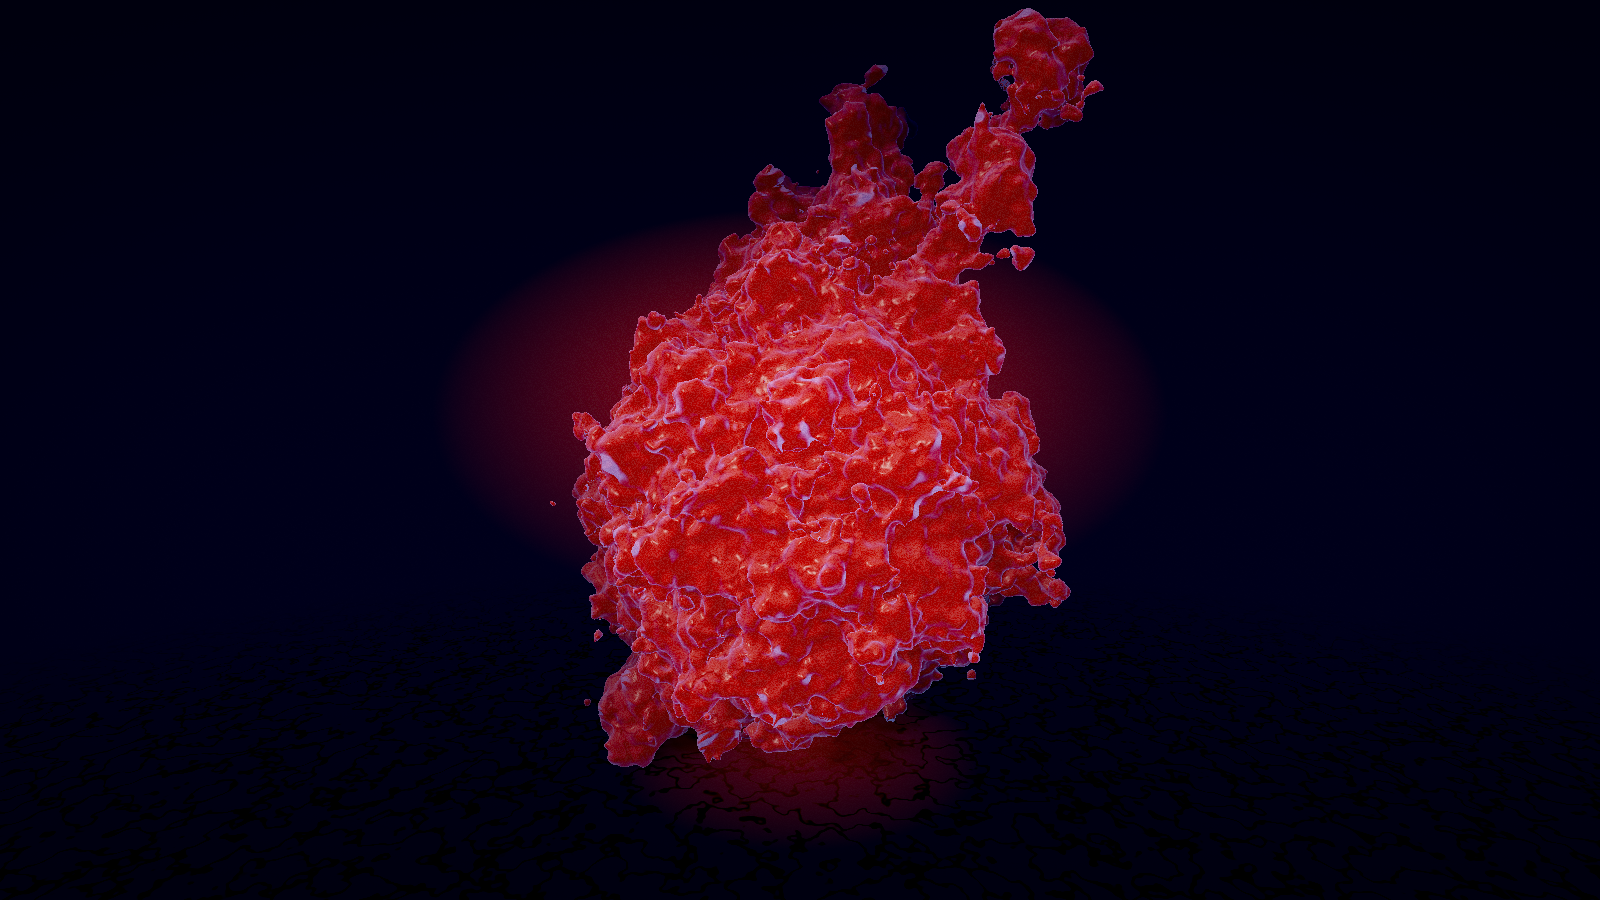
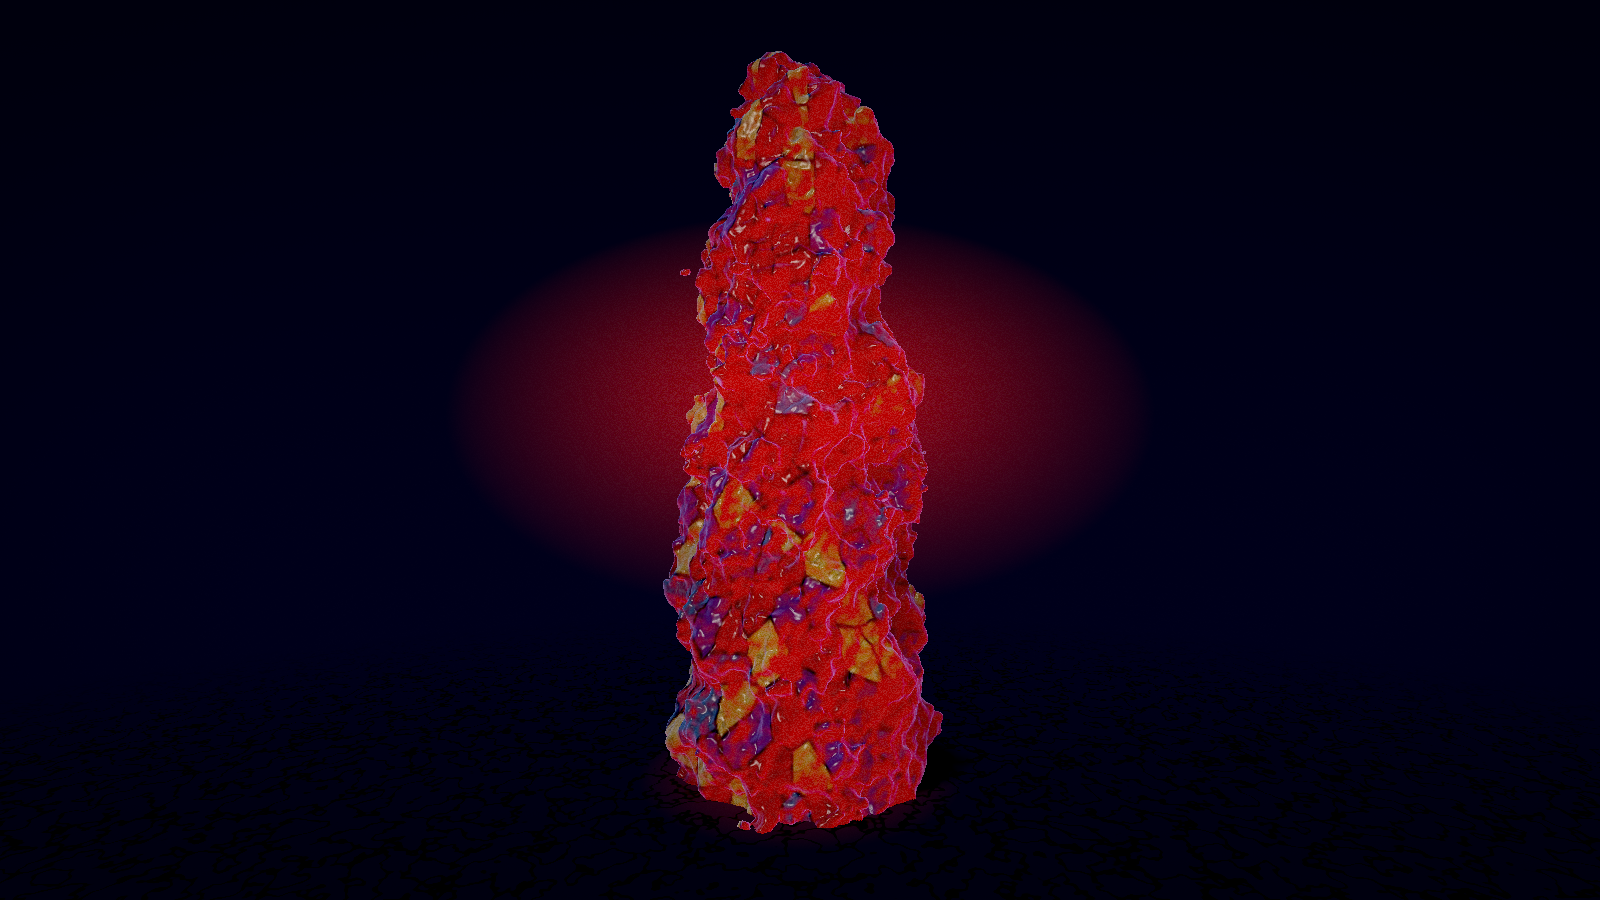
feat: rebuild the mutation as an arm with Voronoi cell tissue
The subject is Tetsuo's arm, not a ball. Replaces the sphere-and-lobes body
with a tapered round cone running along the y axis, and moves the erupting
masses along the limb rather than around a centre. Keeping the arm
axis-aligned is deliberate: it makes the cylindrical texture projection a
single atan2, and the camera orbits instead.

Separates the surface into tissue by projecting cylindrically and running a
Voronoi over the result. Each cell picks one of muscle, bruise, fat or
something colder, with per-cell value variation so neighbours of the same type
still read apart, and f2 - f1 draws the membrane between them. This is the
first layer only — different noise and deformation come next.

New library modules and shapes:

- voronoi.wgsl — voronoiTiled and cellRandom. wgsl-std already ships voronoi2d
  and it is the right choice for a flat field, but a cylinder's angular
  coordinate wraps and a Voronoi keyed on floor(position) puts different cells
  on the two sides of the join, so the seam runs visibly down the shape.
  Wrapping the hashed cell index closes it. Uses the same pcg2d hash as
  wgsl-std so the cells have the same character.
- shape3d gains sdCappedCylinder, sdRoundCone and cylindricalUv.

Also fixes the backscatter, which was inverted. It measured material between
the point and the light and glowed where there was little — which fires
hardest exactly where the surface already faces the light, since nothing is in
[…]

Changed region(s): [[0.3438, 0.0, 0.6875, 0.9333], [0.6875, 0.7156, 0.7188, 0.7467]]

diff --git a/README.md b/README.md
@@ -88,6 +88,7 @@ fn fs_main(@location(0) uv: vec2f) -> @location(0) vec4f {
 | `@gpu-in-html/wgsl/shape2d` | `sdCircle`, `sdBox`, `sdRoundedBox`, `sdSegment`, `sdStar` |
 | `@gpu-in-html/wgsl/shape3d` | `sdSphere`, `sdBox`, `sdRoundBox`, `sdTorus`, `sdCapsule`, `sdPlane`, `sdEllipsoid`, `opRepeat`, `opMirror`, `opTwist`, `rotX`, `rotY` |
 | `@gpu-in-html/wgsl/camera` | `Ray`, `rayFromUv`, `lookAt`, `orbit` |
+| `@gpu-in-html/wgsl/voronoi` | `voronoiTiled`, `cellRandom` — a Voronoi whose x axis wraps, for cylindrical projections |
 | `@gpu-in-html/wgsl/color` | `palette`, `paletteDefault`, Oklab/Oklch, `mixOklab` |
 | `@gpu-in-html/wgsl/post` | `vignette`, `grain`, `applyGrain`, `contrast`, `halation` |
 
@@ -103,7 +104,7 @@ transfer functions and tonemapping from `@vgpu/wgsl-std/color`
 | --- | --- |
 | `01-gradient` | A fullscreen fragment shader and nothing else — the smallest thing that renders. |
 | `02-cloud-form` | A real HTML `<form>` with no background of its own, over a canvas that draws the cloud serving as its chrome. A `ResizeObserver` feeds the form's measured rect to the shader, so the silhouette tracks the DOM through any reflow, and `focusin`/`focusout` swell the cloud. |
-| `03-tetsuo` | A raymarched mass of flesh straining out of itself. Lobes and tendrils erupt from a core through smooth unions, fbm displaces the surface, and light bled through the thin parts gives it volume. A `<input type="range">` drives the mutation and the telemetry panel reads from the same number. |
+| `03-tetsuo` | A raymarched arm coming apart. Masses erupt along the limb through smooth unions, and a cylindrically projected Voronoi separates the surface into cells of muscle, bruise, fat and something colder. A `<input type="range">` drives the mutation and the telemetry panel reads from the same number. |
 
 Colours in a shader are authored in sRGB and converted with `srgbToLinear3`
 before use. Using picker values as if they were linear makes a mid blue roughly
@@ -124,6 +125,17 @@ reference for how the two fit together.
 Displacing an SDF with noise breaks the Lipschitz bound the marcher relies on,
 so a full-length step will tunnel through thin features. Scaling the returned
 distance down (`return d * 0.55`) is the standard fix.
+
+Two shading notes worth keeping, both learned the hard way in `03-tetsuo`:
+
+- **Texture a cylinder with `voronoiTiled`, not `voronoi2d`.** The angular
+  coordinate wraps, and a Voronoi keyed on `floor(position)` puts different
+  cells on the two sides of the join, so the seam runs visibly down the shape.
+- **Backscatter belongs on the side facing away from the light.** Measuring
+  material between the point and the light and glowing where there is little
+  fires hardest exactly where the surface already faces the light — nothing is
+  in the way, so the term saturates and washes every other colour out.
+  Weight it by `1 - diffuse`.
 
 ## Authoring rules
 
